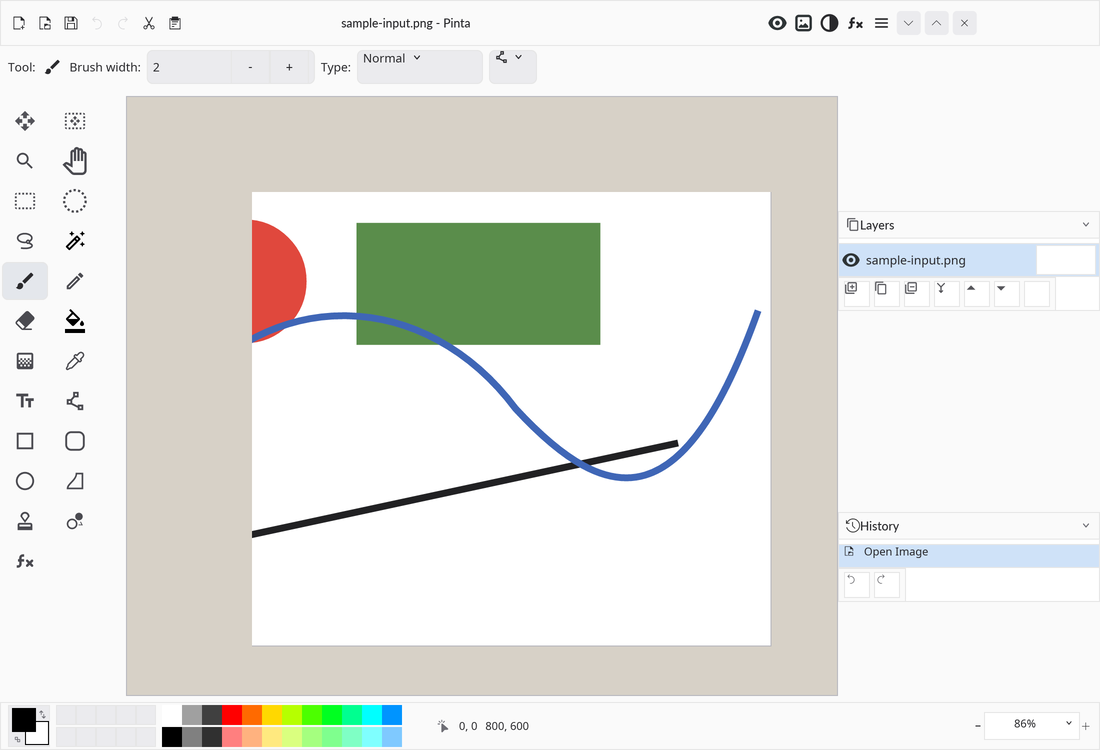
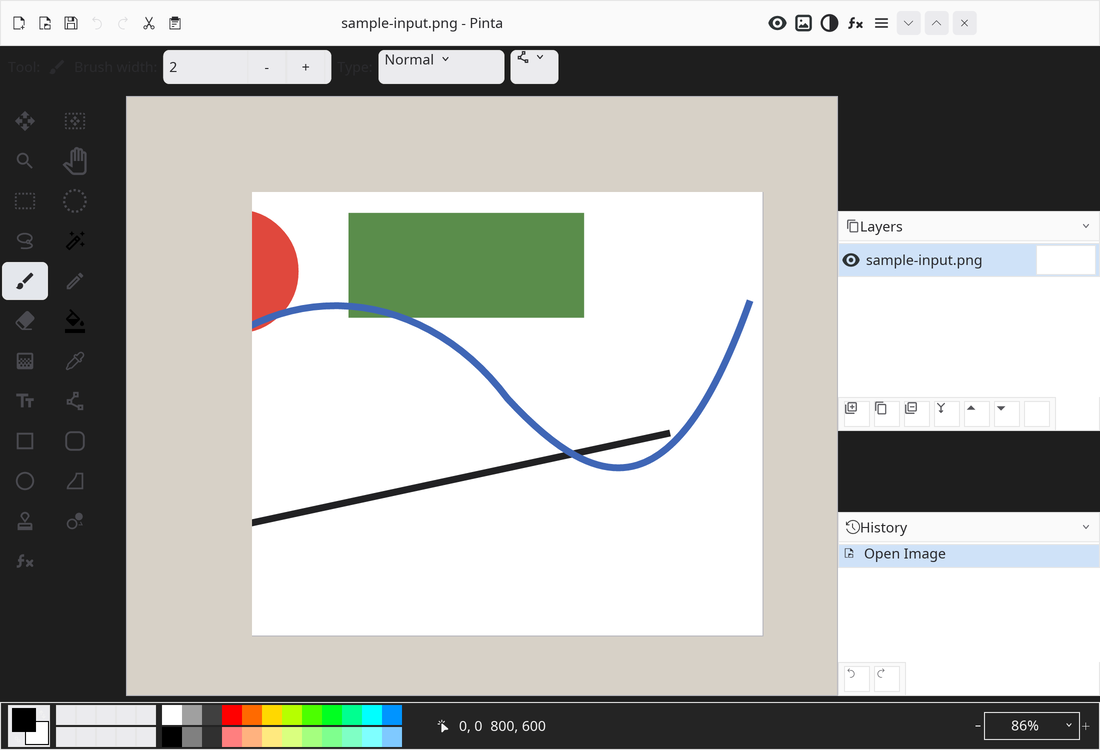
Match GTK typography and sanitize canvas resizing

diff --git a/crates/pinta-ui/src/widgets/canvas_viewport.rs b/crates/pinta-ui/src/widgets/canvas_viewport.rs
@@ -7,6 +7,10 @@ use pinta_theme::PintaTheme;
 
 use crate::widgets::icon::IconKind;
 
+const SURFACE_INSET_X: f32 = 12.0;
+const SURFACE_INSET_Y_TOP: f32 = 18.0;
+const SURFACE_INSET_Y_BOTTOM: f32 = 12.0;
+
 #[derive(Debug, Clone)]
 pub struct ViewportState {
     pub viewport_size: (u32, u32),
@@ -128,8 +132,8 @@ impl Program<CanvasAction> for ViewportProgram {
         let green_rect = Path::rectangle(
             Point::new(px(318.0), py(108.0)),
             Size::new(
-                bounds.width * (274.0 / self.state.viewport_size.0 as f32),
-                bounds.height * (122.0 / self.state.viewport_size.1 as f32),
+                surface_bounds.width * (274.0 / self.state.viewport_size.0 as f32),
+                surface_bounds.height * (122.0 / self.state.viewport_size.1 as f32),
             ),
         );
         frame.fill(&green_rect, iced::Color::from_rgb8(0x5A, 0x8D, 0x4B));
@@ -370,15 +374,44 @@ fn draw_scripted_effect(frame: &mut Frame, active_tool: IconKind, state: &Viewpo
 }
 
 fn anchored_surface_rect(bounds: Size, surface: Size) -> Rectangle {
-    let extra_width = (bounds.width - surface.width).max(0.0);
-    let extra_height = (bounds.height - surface.height).max(0.0);
-    let x = extra_width.min(20.0);
-    let y = extra_height.min(82.0);
+    let safe_width = (bounds.width - SURFACE_INSET_X * 2.0).max(1.0);
+    let safe_height = (bounds.height - SURFACE_INSET_Y_TOP - SURFACE_INSET_Y_BOTTOM).max(1.0);
+
+    let width = surface.width.min(safe_width);
+    let height = surface.height.min(safe_height);
+
+    let extra_width = (safe_width - width).max(0.0);
+    let extra_height = (safe_height - height).max(0.0);
+
+    let x = SURFACE_INSET_X + extra_width.min(8.0);
+    let y = SURFACE_INSET_Y_TOP + extra_height.min(64.0);
 
     Rectangle {
         x,
         y,
-        width: surface.width.min(bounds.width),
-        height: surface.height.min(bounds.height),
+        width,
+        height,
+    }
+}
+
+#[cfg(test)]
+mod tests {
+    use super::anchored_surface_rect;
+    use iced::Size;
+
+    #[test]
+    fn anchored_surface_keeps_left_gutter_when_width_is_tight() {
+        let rect = anchored_surface_rect(Size::new(180.0, 300.0), Size::new(688.0, 516.0));
+
+        assert!(rect.x >= 12.0);
+        assert!(rect.width <= 156.0);
+    }
+
+    #[test]
+    fn anchored_surface_respects_top_and_bottom_insets() {
+        let rect = anchored_surface_rect(Size::new(400.0, 180.0), Size::new(300.0, 516.0));
+
+        assert!(rect.y >= 18.0);
+        assert!(rect.height <= 150.0);
     }
 }

diff --git a/crates/pinta-theme/src/tokens/typography.rs b/crates/pinta-theme/src/tokens/typography.rs
@@ -15,11 +15,11 @@ pub struct Typography {
 impl Default for Typography {
     fn default() -> Self {
         Self {
-            title: 13.0,
-            panel_title: 12.0,
-            body: 12.0,
-            caption: 11.0,
-            toolbar: 12.0,
+            title: 14.0,
+            panel_title: 14.0,
+            body: 14.0,
+            caption: 14.0,
+            toolbar: 14.0,
         }
     }
 }
@@ -27,7 +27,7 @@ impl Default for Typography {
 impl Typography {
     pub fn ui_regular(&self) -> Font {
         Font {
-            family: Family::Name("Adwaita Sans"),
+            family: Family::Name("Noto Sans"),
             weight: Weight::Normal,
             ..Font::DEFAULT
         }
@@ -35,7 +35,7 @@ impl Typography {
 
     pub fn ui_medium(&self) -> Font {
         Font {
-            family: Family::Name("Adwaita Sans"),
+            family: Family::Name("Noto Sans"),
             weight: Weight::Medium,
             ..Font::DEFAULT
         }

diff --git a/VIBE_NOTES.md b/VIBE_NOTES.md
@@ -10,15 +10,15 @@ This file exists to resume the VIBE-coded Rust port mock of Pinta without needin
 
 ## Current Baseline
 
-- Workspace version: `0.1.11`
+- Workspace version: `0.1.12`
 - Branch: `main`
-- Upstream reference capture session: `../upstream-diagnostics-output/20260421-020943/`
-- Current mock diagnostics session: `../pinta-rs-diagnostics-output/20260421-020437/`
+- Upstream reference capture session: `../upstream-diagnostics-output/20260421-023331/`
+- Current mock diagnostics session: `../pinta-rs-diagnostics-output/20260421-023331/`
 - Main upstream screenshot: `../pinta-upstream-window.png`
 - Main mock screenshot: `../pinta-rs-window.png`
 - Latest comparison summary: `../ui-control-comparisons/summary.tsv`
-- Latest measured RMSE before this note: `174.5892`
-- Latest status bar RMSE before this note: `183.8355`
+- Latest measured RMSE before this note: `129.4195`
+- Latest status bar RMSE before this note: `84.4771`
 - Best earlier RMSE mentioned in-session: `49.2716`
 
 ## Architecture Snapshot
@@ -38,6 +38,7 @@ This file exists to resume the VIBE-coded Rust port mock of Pinta without needin
 - Mock screenshots are now captured internally via Iced `window::screenshot()` and written atomically by the app; this avoids active-window focus drift from `spectacle --activewindow`.
 - The compare script now crops external window screenshots down to client area before scoring, so the new internal mock captures are comparable again.
 - Canonical parity artifacts now belong in the workspace root, not inside `pinta-rs/` or `pinta-upstream/`.
+- Upstream general UI typography is not hardcoded in app CSS; it inherits the active GTK font, and on this machine that resolves to `Noto Sans 14`. Upstream text-tool font defaults still come from `Gtk.Settings.GtkFontName`.
 
 ## Where The Upstream Hooks Live
 
@@ -98,17 +99,23 @@ Do not write logs, screenshots, crops, or compare outputs under `pinta-rs/` or `
   - upstream-derived default status-bar palette colors rendered as a visible 24-color subset,
   - a stacked 42x42 foreground/background current-color control,
   - a footer row-height fix so the lower palette row is no longer clipped.
+- The current pass also retained:
+  - bounds-based major-control compare crops with RGBA flattening in `tools/build_ui_comparisons.py`,
+  - right-sidebar and status-bar shell darkening that materially reduced the control RMSE scores,
+  - typography normalization to the effective upstream GTK font on this machine (`Noto Sans 14`),
+  - canvas viewport inset math and tests so narrow window widths preserve a left gutter instead of clipping the page into the border.
 - A later `19x19` footer tightening experiment regressed parity and was intentionally backed out; keep the current 24-color footer geometry unless a new pass measures better.
 
 ## Next Resume Steps
 
 1. Use `./tools/capture_parity_bundle.sh` as the default parity pass so upstream reflection, mock diagnostics, control crops, and full-window diffs refresh together.
-2. Review `../ui-control-comparisons/summary.tsv` first, then inspect `statusbar`, `history-list`, and `layers-list` before changing any other layout tokens.
+2. Review `../ui-control-comparisons/summary.tsv` first, then inspect `history-list`, `layers-list`, and `statusbar` against the raw mock diagnostics crops before assuming the compare bundle is fully current.
 3. Keep the 24-color visible subset and current stacked color-control layout unless a measured parity pass proves a better alternative.
-4. If RMSE improves further, refresh `docs/readme/pinta-rs-current.png` and consider a follow-up tag later.
-5. If RMSE regresses, keep the externalized diagnostics layout and back out only the visual tuning pass that caused the regression.
-6. If mock capture becomes inconsistent again, debug the internal screenshot/export path before trusting compare metrics.
-7. After visual tuning, move from parity mock work toward real editor behaviors one surface at a time.
+4. If typography drifts again, verify the effective GTK font first instead of assuming the icon resources imply the control font.
+5. If RMSE improves further, refresh `docs/readme/pinta-rs-current.png` and consider a follow-up tag later.
+6. If RMSE regresses, keep the externalized diagnostics layout and back out only the visual tuning pass that caused the regression.
+7. If mock capture becomes inconsistent again, debug the internal screenshot/export path before trusting compare metrics.
+8. After visual tuning, move from parity mock work toward real editor behaviors one surface at a time.
 
 ## Quick Commands
 

diff --git a/README.md b/README.md
@@ -10,11 +10,13 @@
 - The current screenshot in this README is copied from the latest workspace-root mock window capture produced by the parity tooling.
 - The paired upstream workspace was instrumented with diagnostics and screenshot hooks so the Rust mock can be compared against a real Pinta build instead of guessing from static screenshots.
 - The latest footer pass added real status-bar palette behavior, a stacked foreground/background color control, and a visible 24-color subset derived from upstream Pinta defaults.
-- Version `0.1.11` is the current workspace release snapshot, published through GitHub Releases rather than checked-in release artifacts.
+- The latest typography pass now follows the effective upstream GTK font on this machine, which resolves to `Noto Sans 14` via GTK settings, while the text tool in upstream still seeds its font chooser from `Gtk.Settings.GtkFontName`.
+- The latest canvas/layout pass adds explicit viewport insets so reduced window widths keep clean canvas gutters instead of clipping into the left border.
+- Version `0.1.12` is the current workspace release snapshot, published through GitHub Releases rather than checked-in release artifacts.
 
-## Release 0.1.11
+## Release 0.1.12
 
-- Git tag: `0.1.11`
+- Git tag: `0.1.12`
 - Release distribution: GitHub Releases for this repository
 - Resume notes for future LLM sessions: `VIBE_NOTES.md`
 
@@ -126,11 +128,11 @@ PINTA_DIAGNOSTICS_DIR=$PWD/diagnostics dotnet run --project Pinta -- --debug ../
 
 The latest reference capture session currently used for comparison is under:
 
-- `../upstream-diagnostics-output/20260421-020943/`
+- `../upstream-diagnostics-output/20260421-023331/`
 
 The latest mock diagnostics session currently paired with that reflection snapshot is under:
 
-- `../pinta-rs-diagnostics-output/20260421-020437/`
+- `../pinta-rs-diagnostics-output/20260421-023331/`
 
 ## Comparing Mock vs Upstream
 
